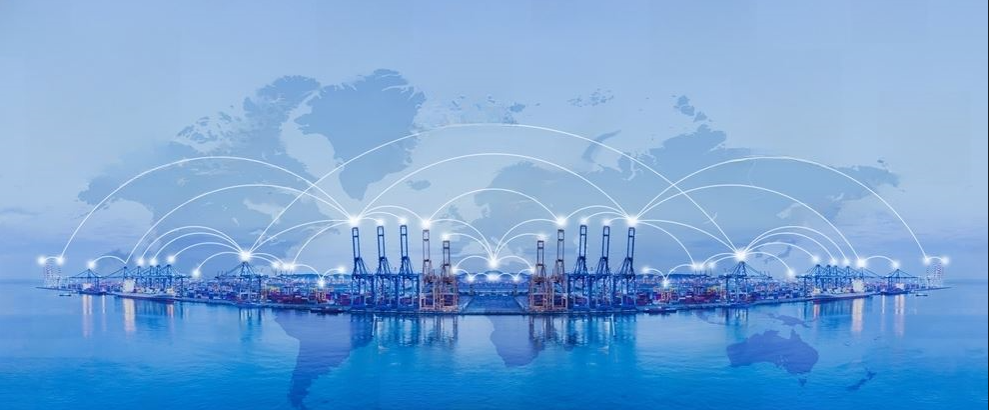
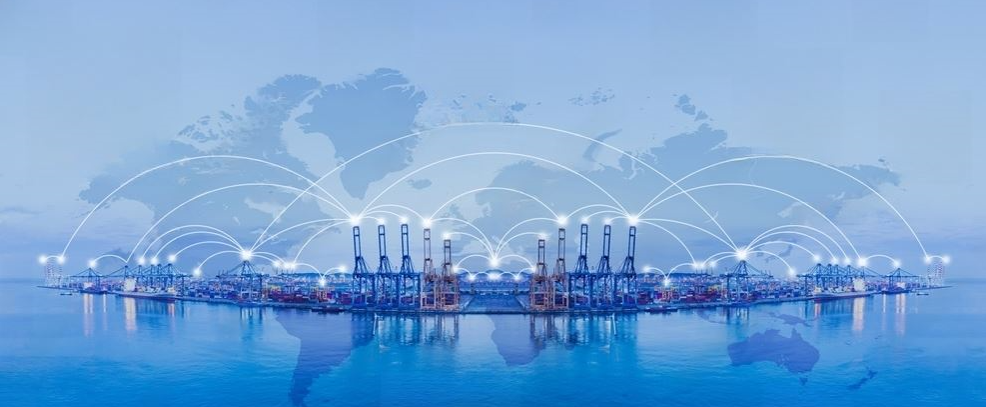
added an image to the home page

diff --git a/src/Components/About.jsx b/src/Components/About.jsx
@@ -1,5 +1,5 @@
 import React from "react";
-import img1 from "../assets/Bg.jpeg";
+import img1 from "../assets/cirilando.png";
 const About = () => {
   return (
     <section>
